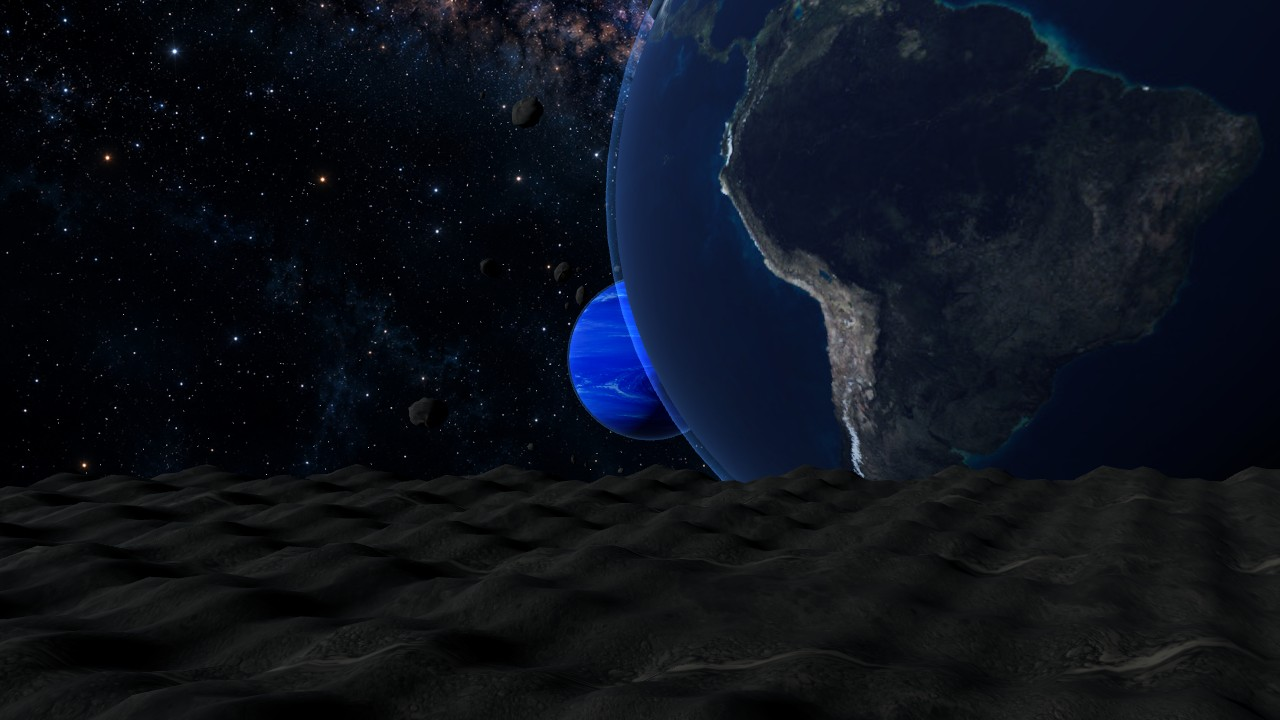
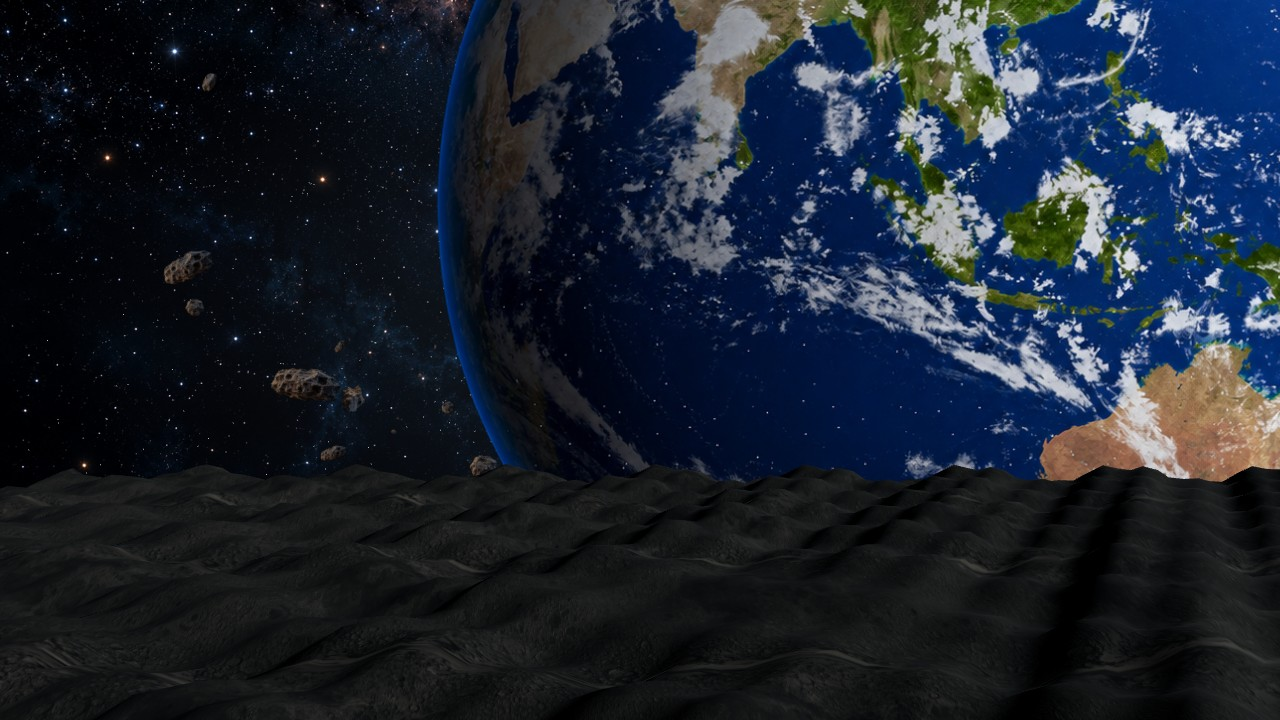
Reconstruct cinematic planet artwork from the video reference

diff --git a/index.html b/index.html
@@ -1,6 +1,6 @@
 <!doctype html>
 <html lang="ru">
-<head><meta charset="UTF-8"><meta name="viewport" content="width=device-width, initial-scale=1"><meta name="theme-color" content="#06090e"><meta name="description" content="Moonvit — жевательные витамины: сон, энергия, красота и баланс. Найдите свою планету в кинематографичном путешествии."><title>Moonvit — ваша вселенная заботы</title><link rel="preload" href="assets/worlds/moon-approach.jpg" as="image"><link rel="stylesheet" href="cinematic.css?v=models-20261014"></head>
+<head><meta charset="UTF-8"><meta name="viewport" content="width=device-width, initial-scale=1"><meta name="theme-color" content="#06090e"><meta name="description" content="Moonvit — жевательные витамины: сон, энергия, красота и баланс. Найдите свою планету в кинематографичном путешествии."><title>Moonvit — ваша вселенная заботы</title><link rel="preload" href="assets/worlds/moon-approach.jpg" as="image"><link rel="stylesheet" href="cinematic.css?v=reference-20261014"></head>
 <body>
 <a class="skip-link" href="#catalog">Перейти к коллекции</a>
 <header class="site-header"><a class="logo" href="#home" aria-label="Moonvit — главная">moonvit<sup>®</sup></a><nav aria-label="Основная навигация"><a href="#journey">Вселенная</a><a href="#catalog">Коллекция</a><a href="#ritual">О Moonvit</a><a href="#b2b">Сотрудничество</a></nav><a class="header-cta" href="#catalog">Выбрать свою планету <span aria-hidden="true"><svg class="icon" viewBox="0 0 16 16" fill="none" aria-hidden="true"><path d="M3 13 13 3M3 3h10v10" stroke="currentColor" stroke-width="1.2" stroke-linecap="round" stroke-linejoin="round"/></svg></span></a></header>
@@ -53,5 +53,5 @@
 <footer class="site-footer"><div class="footer-top"><a class="logo" href="#home">moonvit<sup>®</sup></a><p>Ваша вселенная заботы.</p><a class="text-link" href="https://moonvit.space/contacts" target="_blank" rel="noopener">Связаться с нами <svg class="icon" viewBox="0 0 16 16" fill="none" aria-hidden="true"><path d="M3 13 13 3M3 3h10v10" stroke="currentColor" stroke-width="1.2" stroke-linecap="round" stroke-linejoin="round"/></svg></a></div><nav aria-label="Дополнительные ссылки"><a href="#catalog">Коллекция</a><a href="#ritual">О Moonvit</a><a href="#b2b">Сотрудничество</a><a href="https://moonvit.space/news" target="_blank" rel="noopener">Новости</a><a href="https://moonvit.space/delivery" target="_blank" rel="noopener">Доставка</a><a href="https://moonvit.space/offer" target="_blank" rel="noopener">Оферта</a><a href="https://moonvit.space/privacy" target="_blank" rel="noopener">Конфиденциальность</a></nav><div class="footer-bottom"><span>© 2026 Moonvit</span><p>БАД. Не является лекарственным средством. Перед применением ознакомьтесь с инструкцией и противопоказаниями.</p><a href="#home">Наверх <svg class="icon" viewBox="0 0 16 16" fill="none" aria-hidden="true"><path d="M8 14V2M3 7l5-5 5 5" stroke="currentColor" stroke-width="1.2" stroke-linecap="round" stroke-linejoin="round"/></svg></a></div></footer>
 <dialog id="product-dialog" aria-labelledby="detail-name"><div class="detail-layout"><button class="dialog-close" aria-label="Закрыть карточку">×</button><div class="detail-art"><div class="jar original-jar" id="detail-jar"><img id="detail-photo" alt="" decoding="async"></div></div><div class="detail-copy"><p class="eyebrow">ВАША ПЛАНЕТА MOONVIT</p><h2 id="detail-name"></h2><p id="detail-title"></p><p id="detail-description"></p><p class="detail-flavor" id="detail-flavor"></p><h3>Ключевые компоненты</h3><ul id="detail-ingredients"></ul><p class="detail-note">Состав перенесён с официального сайта. Полный состав, дозировки и рекомендации уточняйте на упаковке и в карточке товара.</p><div class="detail-buy"><a class="pill primary" id="detail-wb" target="_blank" rel="noopener">Купить на Wildberries <svg class="icon" viewBox="0 0 16 16" fill="none" aria-hidden="true"><path d="M3 13 13 3M3 3h10v10" stroke="currentColor" stroke-width="1.2" stroke-linecap="round" stroke-linejoin="round"/></svg></a><a class="pill" id="detail-ozon" target="_blank" rel="noopener">Купить на Ozon <svg class="icon" viewBox="0 0 16 16" fill="none" aria-hidden="true"><path d="M3 13 13 3M3 3h10v10" stroke="currentColor" stroke-width="1.2" stroke-linecap="round" stroke-linejoin="round"/></svg></a><a class="text-link" href="https://moonvit.space/catalog" target="_blank" rel="noopener">В официальный каталог <svg class="icon" viewBox="0 0 16 16" fill="none" aria-hidden="true"><path d="M3 13 13 3M3 3h10v10" stroke="currentColor" stroke-width="1.2" stroke-linecap="round" stroke-linejoin="round"/></svg></a></div><p class="detail-note">БАД. Не является лекарственным средством. Оригинальная фотография продукта Moonvit.</p></div></div></dialog>
 <noscript><style>.journey{display:none!important}.reveal{opacity:1!important;transform:none!important}[data-product]{display:none}</style><p class="noscript-note">Для переключения сцен и просмотра состава включите JavaScript. Купить Moonvit можно в <a href="https://moonvit.space/catalog">официальном каталоге</a>.</p></noscript>
-<script id="product-data" type="application/json">[{"name": "Luna", "title": "Сон и расслабление", "label": "Время выдохнуть.", "description": "Черничный вкус и вечерний ритуал. Серия с глицином, L-теанином и экстрактом гриффонии — для вашей орбиты спокойствия.", "flavor": "Черника", "group": "balance", "accent": "#b0b9df", "ingredients": ["L-глицин", "L-теанин", "Инозитол", "5-HTP (экстракт гриффонии)", "Витамины B3, B4, B6"], "wb": "https://www.wildberries.ru/catalog/496587895/detail.aspx", "ozon": "https://www.ozon.ru/product/3034414296/", "position": "0% 0%", "photo": "assets/products/moon.png", "world": "assets/worlds/moon.jpg", "photoStyle": "--photo-ratio:554/652;--photo-width:303.2491%;--photo-left:-101.6245%;--photo-top:-21.7791%", "formula": "5-HTP · L-теанин · глицин"}, {"name": "Saturn", "title": "Энергия и иммунитет", "label": "В своём ритме.", "description": "Грейпфрутовый вкус и формула с аминокислотами, Q10, PQQ и витаминами. Маленький ритуал для насыщенных дней.", "flavor": "Грейпфрут", "group": "energy", "accent": "#ddb477", "ingredients": ["L-теанин, L-таурин, L-глутамин", "Коэнзим Q10", "PQQ", "Витамины D3, E, C и группы B", "Кофеин — 15 мг по составу на сайте"], "wb": "https://www.wildberries.ru/catalog/496614200/detail.aspx", "ozon": "https://www.ozon.ru/product/3034441475/", "position": "50% 0%", "photo": "assets/products/saturn.png", "world": "assets/worlds/saturn.jpg", "photoStyle": "--photo-ratio:554/652;--photo-width:303.2491%;--photo-left:-101.6245%;--photo-top:-21.7791%", "formula": "Q10 · PQQ · аминокислоты"}, {"name": "Venus", "title": "Женский мультикомплекс", "label": "Выбрать себя.", "description": "Арбуз и личи. Витамины, минералы и коэнзим Q10 в жевательном формате — ежедневный ритуал заботы о себе.", "flavor": "Арбуз · личи", "group": "balance", "accent": "#e6a9b2", "ingredients": ["Магний, цинк, селен", "Коэнзим Q10", "Витамины A, D3, E, K2, C", "Витамины группы B, биотин и фолат"], "wb": "https://www.wildberries.ru/catalog/496612403/detail.aspx", "ozon": "https://www.ozon.ru/product/3034516401/", "position": "100% 0%", "photo": "assets/products/venus.png", "world": "assets/worlds/venus.jpg", "photoStyle": "--photo-ratio:1262/1489;--photo-width:304.2789%;--photo-left:-102.1395%;--photo-top:-21.8267%", "formula": "Q10 · магний · витамины"}, {"name": "Mars", "title": "Мужской мультикомплекс", "label": "Своя траектория.", "description": "Лимон юдзу и кардамон. Цинк, магний, Q10 и витамины группы B — в серии для ежедневной заботы о себе.", "flavor": "Лимон юдзу · кардамон", "group": "energy", "accent": "#dca17e", "ingredients": ["Магний, цинк, бор, селен, йод", "Коэнзим Q10", "Витамины A, D3, E, K2, C", "Витамины группы B, биотин и фолат"], "wb": "https://www.wildberries.ru/catalog/496613689/detail.aspx", "ozon": "https://www.ozon.ru/product/3034467980/", "position": "0% 100%", "photo": "assets/products/mars.png", "world": "assets/worlds/mars.jpg", "photoStyle": "--photo-ratio:1262/1489;--photo-width:304.2789%;--photo-left:-102.1395%;--photo-top:-21.8267%", "formula": "Q10 · цинк · витамины B"}, {"name": "Earth", "title": "Коллаген + биотин", "label": "Красота изнутри.", "description": "Коллаген, биотин и витамины C, B3, B6 в жевательном формате. Вкус персика и личи — как на оригинальной упаковке этой серии.", "flavor": "Персик · личи", "group": "beauty", "accent": "#9dcfc7", "ingredients": ["Гидролизованный коллаген — 2000 мг по составу на сайте", "Биотин", "Витамины B3, B6, C"], "wb": "https://www.wildberries.ru/catalog/474828026/detail.aspx", "ozon": "https://www.ozon.ru/product/2929186704/", "position": "50% 100%", "photo": "assets/products/earth.png", "world": "assets/worlds/earth.jpg", "photoStyle": "--photo-ratio:702/883;--photo-width:239.3162%;--photo-left:-69.6581%;--photo-top:-3.6240%", "formula": "Коллаген · биотин · витамин C"}, {"name": "Neptune", "title": "Кожа, волосы, ногти", "label": "Сиять по-своему.", "description": "Мягкий вкус манго и ромашки. Коллаген, биотин, гиалуронат и MSM — ваша планета ежедневного бьюти-ритуала.", "flavor": "Манго · ромашка", "group": "beauty", "accent": "#a6b6f5", "ingredients": ["Гидролизованный коллаген", "MSM", "Гиалуронат натрия", "Коэнзим Q10 и цинк", "Витамины A, D3, E, K2, B2, B3, биотин и фолат"], "wb": "https://www.wildberries.ru/catalog/496615227/detail.aspx", "ozon": "https://www.ozon.ru/product/3034361846/", "position": "100% 100%", "photo": "assets/products/neptune.png", "world": "assets/worlds/neptune.jpg", "photoStyle": "--photo-ratio:554/652;--photo-width:303.2491%;--photo-left:-101.6245%;--photo-top:-21.7791%", "formula": "Коллаген · биотин · гиалуронат"}]</script><script src="cinematic.js?v=models-20261014"></script>
+<script id="product-data" type="application/json">[{"name": "Luna", "title": "Сон и расслабление", "label": "Время выдохнуть.", "description": "Черничный вкус и вечерний ритуал. Серия с глицином, L-теанином и экстрактом гриффонии — для вашей орбиты спокойствия.", "flavor": "Черника", "group": "balance", "accent": "#b0b9df", "ingredients": ["L-глицин", "L-теанин", "Инозитол", "5-HTP (экстракт гриффонии)", "Витамины B3, B4, B6"], "wb": "https://www.wildberries.ru/catalog/496587895/detail.aspx", "ozon": "https://www.ozon.ru/product/3034414296/", "position": "0% 0%", "photo": "assets/products/moon.png", "world": "assets/worlds/moon.jpg", "photoStyle": "--photo-ratio:554/652;--photo-width:303.2491%;--photo-left:-101.6245%;--photo-top:-21.7791%", "formula": "5-HTP · L-теанин · глицин"}, {"name": "Saturn", "title": "Энергия и иммунитет", "label": "В своём ритме.", "description": "Грейпфрутовый вкус и формула с аминокислотами, Q10, PQQ и витаминами. Маленький ритуал для насыщенных дней.", "flavor": "Грейпфрут", "group": "energy", "accent": "#ddb477", "ingredients": ["L-теанин, L-таурин, L-глутамин", "Коэнзим Q10", "PQQ", "Витамины D3, E, C и группы B", "Кофеин — 15 мг по составу на сайте"], "wb": "https://www.wildberries.ru/catalog/496614200/detail.aspx", "ozon": "https://www.ozon.ru/product/3034441475/", "position": "50% 0%", "photo": "assets/products/saturn.png", "world": "assets/worlds/saturn.jpg", "photoStyle": "--photo-ratio:554/652;--photo-width:303.2491%;--photo-left:-101.6245%;--photo-top:-21.7791%", "formula": "Q10 · PQQ · аминокислоты"}, {"name": "Venus", "title": "Женский мультикомплекс", "label": "Выбрать себя.", "description": "Арбуз и личи. Витамины, минералы и коэнзим Q10 в жевательном формате — ежедневный ритуал заботы о себе.", "flavor": "Арбуз · личи", "group": "balance", "accent": "#e6a9b2", "ingredients": ["Магний, цинк, селен", "Коэнзим Q10", "Витамины A, D3, E, K2, C", "Витамины группы B, биотин и фолат"], "wb": "https://www.wildberries.ru/catalog/496612403/detail.aspx", "ozon": "https://www.ozon.ru/product/3034516401/", "position": "100% 0%", "photo": "assets/products/venus.png", "world": "assets/worlds/venus.jpg", "photoStyle": "--photo-ratio:1262/1489;--photo-width:304.2789%;--photo-left:-102.1395%;--photo-top:-21.8267%", "formula": "Q10 · магний · витамины"}, {"name": "Mars", "title": "Мужской мультикомплекс", "label": "Своя траектория.", "description": "Лимон юдзу и кардамон. Цинк, магний, Q10 и витамины группы B — в серии для ежедневной заботы о себе.", "flavor": "Лимон юдзу · кардамон", "group": "energy", "accent": "#dca17e", "ingredients": ["Магний, цинк, бор, селен, йод", "Коэнзим Q10", "Витамины A, D3, E, K2, C", "Витамины группы B, биотин и фолат"], "wb": "https://www.wildberries.ru/catalog/496613689/detail.aspx", "ozon": "https://www.ozon.ru/product/3034467980/", "position": "0% 100%", "photo": "assets/products/mars.png", "world": "assets/worlds/mars.jpg", "photoStyle": "--photo-ratio:1262/1489;--photo-width:304.2789%;--photo-left:-102.1395%;--photo-top:-21.8267%", "formula": "Q10 · цинк · витамины B"}, {"name": "Earth", "title": "Коллаген + биотин", "label": "Красота изнутри.", "description": "Коллаген, биотин и витамины C, B3, B6 в жевательном формате. Вкус персика и личи — как на оригинальной упаковке этой серии.", "flavor": "Персик · личи", "group": "beauty", "accent": "#9dcfc7", "ingredients": ["Гидролизованный коллаген — 2000 мг по составу на сайте", "Биотин", "Витамины B3, B6, C"], "wb": "https://www.wildberries.ru/catalog/474828026/detail.aspx", "ozon": "https://www.ozon.ru/product/2929186704/", "position": "50% 100%", "photo": "assets/products/earth.png", "world": "assets/worlds/earth.jpg", "photoStyle": "--photo-ratio:702/883;--photo-width:239.3162%;--photo-left:-69.6581%;--photo-top:-3.6240%", "formula": "Коллаген · биотин · витамин C"}, {"name": "Neptune", "title": "Кожа, волосы, ногти", "label": "Сиять по-своему.", "description": "Мягкий вкус манго и ромашки. Коллаген, биотин, гиалуронат и MSM — ваша планета ежедневного бьюти-ритуала.", "flavor": "Манго · ромашка", "group": "beauty", "accent": "#a6b6f5", "ingredients": ["Гидролизованный коллаген", "MSM", "Гиалуронат натрия", "Коэнзим Q10 и цинк", "Витамины A, D3, E, K2, B2, B3, биотин и фолат"], "wb": "https://www.wildberries.ru/catalog/496615227/detail.aspx", "ozon": "https://www.ozon.ru/product/3034361846/", "position": "100% 100%", "photo": "assets/products/neptune.png", "world": "assets/worlds/neptune.jpg", "photoStyle": "--photo-ratio:554/652;--photo-width:303.2491%;--photo-left:-101.6245%;--photo-top:-21.7791%", "formula": "Коллаген · биотин · гиалуронат"}]</script><script src="cinematic.js?v=reference-20261014"></script>
 </body></html>

diff --git a/flight.js b/flight.js
@@ -1,15 +1,15 @@
 import * as THREE from './assets/vendor/three/three.module.js';
 
 // Original product PNGs remain untouched; only transparent margins are cropped for GPU upload.
-const textures = ['moon.jpg', 'saturn.png', 'venus.png', 'mars.png', 'earth.jpg', 'neptune.png'];
-// Art direction measured against the supplied video, rather than one light for every planet.
+const textures = ['moon', 'saturn', 'venus', 'mars', 'earth', 'neptune'];
+// Reference composition and light direction; lighting on the planets is baked into the cutouts.
 const worlds = [
-  {radius:12.3, light:[-.9,.35,.4], color:0xe1edff, rim:0x96bcff, tint:0xd9e0ec, landing:[.72,.27]},
-  {radius:13, light:[-.95,.3,.2], color:0xffedce, rim:0xffd8a0, tint:0xb8b1a2, landing:[.96,.18]},
-  {radius:12.5, light:[-.85,.45,.3], color:0xffe7df, rim:0xffd1d9, tint:0xedc6d1, landing:[.78,.30]},
-  {radius:13.4, light:[.9,.45,.15], color:0xffddaa, rim:0xffbb76, tint:0xce9d76, landing:[.78,.25]},
-  {radius:12.4, light:[-.9,.35,.35], color:0xdbedff, rim:0x8ec8ff, tint:0xd9eaff, landing:[.78,.28]},
-  {radius:13, light:[.95,.35,.18], color:0xd7eaff, rim:0x93caff, tint:0xb6c9ed, landing:[.77,.27]}
+  {radius:17, light:[.9,.35,.4], color:0xe1edff, landing:[.72,.27]},
+  {radius:14.5, light:[-.95,.3,.2], color:0xffedce, landing:[.94,.51]},
+  {radius:14.2, light:[-.85,.45,.3], color:0xffe7df, landing:[.78,.30]},
+  {radius:18, light:[.9,.45,.15], color:0xffddaa, landing:[.78,.25]},
+  {radius:18, light:[.9,.35,.35], color:0xdbedff, landing:[.78,.28]},
+  {radius:16, light:[.95,.35,.18], color:0xd7eaff, landing:[.77,.27]}
 ];
 const SECTOR = 100;
 const FOV = 50;
@@ -19,7 +19,6 @@ const finalProductZ = -6;
 const clamp = n => Math.max(0, Math.min(1, n));
 const ease = n => { n = clamp(n); return n * n * (3 - 2 * n); };
 const lerp = (a, b, t) => a + (b - a) * t;
-const point = new THREE.Vector3();
 
 function randomGenerator(seed) {
   return () => {
@@ -28,19 +27,6 @@ function randomGenerator(seed) {
     n ^= n + Math.imul(n ^ n >>> 7, 61 | n);
     return ((n ^ n >>> 14) >>> 0) / 4294967296;
   };
-}
-
-function makeRockGeometry() {
-  const geometry = new THREE.SphereGeometry(1, 16, 10);
-  const positions = geometry.attributes.position;
-  for (let i = 0; i < positions.count; i++) {
-    point.fromBufferAttribute(positions, i);
-    const roughness = 1 + 0.12 * Math.sin(point.x * 18 + point.y * 7) * Math.cos(point.z * 11);
-    point.multiplyScalar(roughness);
-    positions.setXYZ(i, point.x, point.y, point.z);
-  }
-  geometry.computeVertexNormals();
-  return geometry;
 }
 
 function makeTerrainGeometry() {
@@ -56,41 +42,22 @@ function makeTerrainGeometry() {
   return geometry;
 }
 
-function ringMaterial(innerRadius, outerRadius, radius) {
-  return new THREE.ShaderMaterial({
-    transparent: true, side: THREE.DoubleSide, depthWrite: false,
-    uniforms: { inner: {value: innerRadius}, outer: {value: outerRadius}, radius:{value:radius}, light:{value:new THREE.Vector3(-.95,.3,.2).normalize()} },
-    vertexShader: `varying vec3 ringPosition; varying vec3 planetPosition; void main(){ ringPosition=position; planetPosition=mat3(modelMatrix)*position; gl_Position=projectionMatrix*modelViewMatrix*vec4(position,1.0); }`,
-    fragmentShader: `varying vec3 ringPosition; varying vec3 planetPosition; uniform float inner; uniform float outer; uniform float radius; uniform vec3 light;
-      void main(){ float r=length(ringPosition.xy); float t=(r-inner)/(outer-inner);
-      float fine=1.-smoothstep(.006,.03,fwidth(t));
-      float bands=.55+.17*sin(t*47.)+.12*sin(t*132.)+.09*sin(t*430.)*fine;
-      float gap=1.-smoothstep(.47,.48,t)*(1.-smoothstep(.505,.52,t));
-      float alpha=(.53+.38*bands)*gap*smoothstep(0.,.015,t)*(1.-smoothstep(.97,1.,t));
-      float along=dot(planetPosition,light); float distanceToRay=length(planetPosition-light*along);
-      float shadow=along<0. ? mix(.14,1.,smoothstep(radius*.97,radius*1.08,distanceToRay)) : 1.;
-      vec3 color=mix(vec3(.26,.17,.09),vec3(.79,.49,.22),bands)*shadow;
-      gl_FragColor=vec4(color,alpha);
-      #include <tonemapping_fragment>
-      #include <colorspace_fragment>
-      }`
+// View-facing photographic cutouts retain the reference's crater placement,
+// soft lighting and luminous limb while the camera moves through 3D space.
+function makePlanet(surface, index) {
+  const world = worlds[index];
+  const height = world.radius * 2.24;
+  const width = height * surface.image.width / surface.image.height;
+  const material = new THREE.MeshBasicMaterial({
+    map:surface, transparent:true, alphaTest:.012, depthWrite:true, toneMapped:false, fog:false
   });
-}
-
-function atmosphere(radius, color) {
-  return new THREE.Mesh(new THREE.SphereGeometry(radius * 1.025, 48, 32), new THREE.ShaderMaterial({
-    uniforms: {glow: {value: new THREE.Color(color)}}, transparent: true, depthWrite: false,
-    blending: THREE.AdditiveBlending,
-    vertexShader: `varying vec3 n; varying vec3 v; void main(){ vec4 p=modelViewMatrix*vec4(position,1.); n=normalize(normalMatrix*normal); v=normalize(-p.xyz); gl_Position=projectionMatrix*p; }`,
-    fragmentShader: `uniform vec3 glow; varying vec3 n; varying vec3 v; void main(){ float rim=pow(1.-max(0.,dot(normalize(n),normalize(v))),4.5); gl_FragColor=vec4(glow,rim*.55); }`
-  }));
-}
-
-function planetMaterial(surface, index) {
-  const material = new THREE.MeshStandardMaterial({map:surface, color:worlds[index].tint, roughness:1, metalness:0});
-  if (index === 0 || index === 3) { material.bumpMap = surface; material.bumpScale = index === 0 ? .09 : .055; }
-
-  return material;
+  if (index !== 1) material.onBeforeCompile = shader => {
+    // Feather the reconstructed glow so isolated alpha flecks cannot form a hard fringe.
+    shader.fragmentShader = shader.fragmentShader.replace('#include <map_fragment>', '#include <map_fragment>\ndiffuseColor.a*=1.-smoothstep(.465,.495,length(vMapUv-vec2(.5)));');
+  };
+  const mesh = new THREE.Mesh(new THREE.PlaneGeometry(width, height), material);
+  mesh.userData.referencePlanet = textures[index];
+  return mesh;
 }
 
 export async function createFlight(stage, products) {
@@ -133,12 +100,10 @@ export async function createFlight(stage, products) {
   const stars = new THREE.Points(starsGeometry, new THREE.PointsMaterial({color: 0xd9e8ff, size: .18, transparent: true, opacity: .8, sizeAttenuation: true}));
   scene.add(stars);
 
-  const rockGeometry = makeRockGeometry();
   let rockMap;
   try { rockMap = await loader.loadAsync('assets/flight/moon.jpg'); }
-  catch { renderer.dispose(); rockGeometry.dispose(); starsGeometry.dispose(); stars.material.dispose(); return null; }
+  catch { renderer.dispose(); starsGeometry.dispose(); stars.material.dispose(); return null; }
   rockMap.colorSpace = THREE.SRGBColorSpace;
-  const rockMaterial = new THREE.MeshStandardMaterial({map:rockMap, color:0x726a60, roughness:1});
   const groundMap = rockMap.clone();
   groundMap.wrapS = groundMap.wrapT = THREE.RepeatWrapping;
   groundMap.repeat.set(7, 5);
@@ -147,44 +112,45 @@ export async function createFlight(stage, products) {
   const terrainMaterial = new THREE.MeshStandardMaterial({map:groundMap, bumpMap:groundMap, bumpScale:.16, color:0x62594b, roughness:1, transparent:true});
   resources.push(groundMap);
   resources.push(rockMap);
-  const asteroidCount = 220;
+  // Photo cutouts give the foreground stones the same natural detail as the video.
+  let asteroidMap;
+  try { asteroidMap = await loader.loadAsync('assets/planets/asteroids.png'); }
+  catch { renderer.dispose(); resources.forEach(texture=>texture.dispose()); terrainGeometry.dispose(); terrainMaterial.dispose(); starsGeometry.dispose(); stars.material.dispose(); return null; }
+  asteroidMap.colorSpace = THREE.SRGBColorSpace;
+  resources.push(asteroidMap);
+  const asteroidCount = 960;
+  const rockGeometry = new THREE.PlaneGeometry(1,1);
+  const tiles = new Float32Array(asteroidCount * 2);
+  const asteroidPoses = [];
+  const rockMaterial = new THREE.MeshBasicMaterial({map:asteroidMap, color:0xaab2b9, transparent:true, alphaTest:.04, depthWrite:true, toneMapped:false});
+  rockMaterial.onBeforeCompile = shader => {
+    shader.vertexShader = 'attribute vec2 asteroidTile;\n' + shader.vertexShader;
+    shader.vertexShader = shader.vertexShader.replace('#include <uv_vertex>', '#include <uv_vertex>\nvMapUv=(vMapUv+asteroidTile)*.5;');
+  };
   const asteroids = new THREE.InstancedMesh(rockGeometry, rockMaterial, asteroidCount);
   const transform = new THREE.Object3D();
-  for (let i = 0; i < asteroidCount; i++) {
-    const angle = random() * Math.PI * 2;
-    const radius = 4.8 + random() * 27;
-    transform.position.set(Math.cos(angle) * radius, Math.sin(angle) * radius, 25 - random() * 680);
-    const size = .12 + random() ** 3 * 1.25;
-    transform.scale.set(size * (1 + random()), size, size * (.7 + random()));
-    transform.rotation.set(random() * Math.PI, random() * Math.PI, random() * Math.PI);
-    transform.updateMatrix();
-    asteroids.setMatrixAt(i, transform.matrix);
+  const roll = new THREE.Quaternion();
+  const rollAxis = new THREE.Vector3(0,0,1);
+  for (let i=0; i<asteroidCount; i++) {
+    const angle=random()*Math.PI*2, radius=7+random()*29;
+    asteroidPoses.push({x:Math.cos(angle)*radius, y:Math.sin(angle)*radius*.75-3, z:12-Math.floor(i/160)*SECTOR-random()*100, size:.25+random()**2*2.2, roll:(random()-.5)*Math.PI});
+    tiles[i*2]=i%2; tiles[i*2+1]=Math.floor(i/2)%2;
   }
+  rockGeometry.setAttribute('asteroidTile',new THREE.InstancedBufferAttribute(tiles,2));
+  asteroids.frustumCulled=false;
   scene.add(asteroids);
 
   try {
-    await Promise.all(products.map(async (product, index) => {
+    const built = await Promise.allSettled(products.map(async (product, index) => {
       const [surface, photo] = await Promise.all([
-        loader.loadAsync(`assets/flight/${textures[index]}`),
+        loader.loadAsync(`assets/planets/${textures[index]}.png`),
         loader.loadAsync(product.photo)
       ]);
       surface.colorSpace = photo.colorSpace = THREE.SRGBColorSpace;
       surface.anisotropy = Math.min(4, renderer.capabilities.getMaxAnisotropy());
       resources.push(surface, photo);
-      const radius = worlds[index].radius;
-      const planet = new THREE.Group();
-      planet.position.set(3.5, .3, -index * SECTOR - 27);
-      const body = new THREE.Mesh(new THREE.SphereGeometry(radius, 64, 48), planetMaterial(surface, index));
-      body.rotation.y = index === 4 ? -1.1 : index === 5 ? -1.7 : .15;
-      planet.add(body, atmosphere(radius, worlds[index].rim));
-      if (index === 1) {
-        const innerRadius = radius * 1.15, outerRadius = radius * 2.03;
-        const rings = new THREE.Mesh(new THREE.RingGeometry(innerRadius, outerRadius, 192), ringMaterial(innerRadius, outerRadius, radius));
-        // Rotate the ring plane itself around the view axis; Euler Z before X inverted the slope.
-        rings.rotation.x = -1.40;
-        rings.rotateOnWorldAxis(new THREE.Vector3(0,0,1), -.32);
-        planet.add(rings);
-      }
+      const planet = makePlanet(surface,index);
+      planet.position.set(1.6,.4,-index*SECTOR-27);
       scene.add(planet);
       planets[index] = planet;
 
@@ -215,7 +181,11 @@ export async function createFlight(stage, products) {
       scene.add(shelf);
       shelves[index] = shelf;
     }));
+    const failure = built.find(result=>result.status==='rejected');
+    if (failure) throw failure.reason;
   } catch (error) {
+    scene.traverse(object=>{ object.geometry?.dispose(); object.material?.dispose(); });
+    terrainGeometry.dispose(); terrainMaterial.dispose();
     renderer.dispose();
     resources.forEach(texture => texture.dispose());
     return null;
@@ -256,6 +226,7 @@ export async function createFlight(stage, products) {
     camera.position.set(departure > 0 ? lerp(0,-1.2,departure)+Math.sin(departure*Math.PI)*4.2 : lerp(-1.2,0,approach), departure > 0 ? .1*departure+Math.sin(departure*Math.PI)*.9 : .1*(1-approach), cameraZ);
     camera.lookAt(camera.position.x * .5, camera.position.y * .5, cameraZ - 40);
     const world = worlds[index];
+    stage.style.setProperty('--nebula-glow', ['#b4d9ff35','#d6ae6c24','#ddb3c62b','#ce9b7425','#a5ccee30','#8fabf640'][index]);
     const planetDistance = finalCameraZ + 27;
     const planetSpan = 2 * planetDistance * Math.tan(FOV * Math.PI / 360);
     // The planet moves to the upper right during arrival, leaving the product and text in front.
@@ -285,16 +256,26 @@ export async function createFlight(stage, products) {
       pack.material.opacity = ease((phase - .22) / .12) * (1 - exit);
       terrainMaterial.opacity = ease((phase - .49) / .07) * (1 - exit);
       shelves[i].position.set(pack.position.x, pack.position.y - pose.h / 2 - .025, pack.position.z - .12);
-      const planet = planets[i];
-      planet.rotation.y = phase * .045;
     });
     planets.forEach((planet, i) => {
-      planet.visible = i === index || i === index + 1;
+      planet.visible = i === index || (i === index + 1 && departure > .05);
       if (i !== index) { planet.position.x = 1.6; planet.position.y = .4; planet.scale.setScalar(Math.min(1, camera.aspect / .95)); }
     });
+    planets.forEach(planet => planet.quaternion.copy(camera.quaternion));
+    asteroidPoses.forEach((rock,i) => {
+      const distance=cameraZ-rock.z;
+      const size=rock.size*ease((distance-3)/4);
+      transform.position.set(rock.x,rock.y,rock.z);
+      transform.scale.setScalar(size);
+      roll.setFromAxisAngle(rollAxis,rock.roll);
+      transform.quaternion.copy(camera.quaternion).multiply(roll);
+      transform.updateMatrix(); asteroids.setMatrixAt(i,transform.matrix);
+    });
+    asteroids.instanceMatrix.needsUpdate=true;
     renderer.render(scene, camera);
     stage.dataset.flightPhase = phase < .22 ? 'approach' : phase < .55 ? 'arrival' : phase < .8 || index === products.length - 1 ? 'hold' : 'departure';
     stage.dataset.cameraZ = cameraZ.toFixed(3);
+    stage.dataset.planetAsset = `assets/planets/${textures[index]}.png`;
   }
   const onResize = () => { resize(); render(lastCursor); };
   addEventListener('resize', onResize);

diff --git a/cinematic.css b/cinematic.css
@@ -28,7 +28,9 @@
 @media(max-height:760px) and (max-width:700px){.chapter-copy h2{font-size:40px}.chapter-copy h3{font-size:16px;margin-bottom:8px}.chapter-copy .eyebrow{margin-bottom:8px}.chapter-description{font-size:8px;line-height:1.6;max-width:265px}.chapter-product{top:48%;height:32svh;left:39%}.chapter-actions .text-link{font-size:8px}.chapter-navigation{bottom:79px}}
 @media(min-width:701px) and (max-width:1000px) and (orientation:portrait){.chapter-copy{top:13%;left:7%;width:75%;max-width:500px}.chapter-copy h2{font-size:72px}.chapter-copy h3{font-size:24px}.chapter-description{max-width:400px;font-size:12px}.chapter-specs{display:none}.chapter-product{left:38%;top:45%;height:39svh}.chapter-navigation{right:4%;top:43%}}
 .home-anchor{display:block;height:0}.cinema-stage>.opening{position:absolute;inset:0;height:100%;min-height:0;z-index:3;pointer-events:none}.cinema-stage>.opening a{pointer-events:auto}.cinema-stage>.opening .opening-bottom{bottom:90px}.flight-canvas{position:absolute;inset:0;width:100%;height:100%;z-index:0;pointer-events:none}.flight-ready{background:#02050a url('assets/flight/sky.png') center/cover no-repeat}.flight-ready .chapter{z-index:1}.flight-ready .chapter>.cosmos,.flight-ready .chapter-product,.flight-ready .flyby,.flight-ready .opening-background{visibility:hidden!important}.flight-ready .cinema-shade{z-index:-1}.flight-ready .chapter-copy,.flight-ready .approach-label{z-index:3}.flight-ready .chapter-navigation,.flight-ready .cinema-bottom{z-index:4}
-/* The lightweight scenes use renders of the same planet geometry and lighting. */
+/* The lightweight scenes use renders of the same planet artwork and composition. */
+.site-header.over-flight{background:linear-gradient(#02060b80,transparent);border-color:#ffffff12;backdrop-filter:none}
+.flight-ready{background-image:radial-gradient(ellipse at 78% 42%,var(--nebula-glow,#b4d9ff35),transparent 67%),url('assets/flight/sky.png');background-blend-mode:screen,normal}
 .cosmos,.chapter .cosmos{background-image:var(--approach-world,var(--world));background-position:center;transform:none}
 .chapter>.cosmos::after{content:'';position:absolute;inset:0;background:var(--world) center/cover no-repeat;opacity:var(--world-arrival,0)}
 .foreground,.flyby{display:none}

diff --git a/cinematic.js b/cinematic.js
@@ -34,6 +34,7 @@ function draw() {
   frameRequested = false;
   header.classList.toggle('scrolled', scrollY > 50);
   const progress = clamp((scrollY - journeyStart) / (chapterDistance * chapters.length));
+  header.classList.toggle('over-flight', scrollY < journeyStart + chapterDistance * chapters.length);
   const cursor = Math.min(progress * chapters.length, chapters.length - 0.001);
   const index = Math.floor(cursor);
   const fraction = cursor - index;
@@ -110,7 +111,7 @@ async function startFlight() {
   if (flightScene || flightLoading || reducedMotion.matches) return;
   flightLoading = true;
   try {
-    const module = await import('./flight.js?v=models-20261014');
+    const module = await import('./flight.js?v=reference-20261014');
     const created = await module.createFlight(stage, products);
     if (reducedMotion.matches) created?.dispose();
     else flightScene = created;

diff --git a/tests/smoke.py b/tests/smoke.py
@@ -99,13 +99,15 @@ with sync_playwright() as playwright:
     assert not errors, errors
     browser.close()
 
-    for failure in ['no-webgl', 'texture-failure']:
+    for failure in ['no-webgl', 'texture-failure', 'planet-failure']:
         args = ['--no-sandbox'] + (['--disable-webgl'] if failure == 'no-webgl' else [])
         browser = playwright.chromium.launch(executable_path='/usr/bin/chromium', headless=True, args=args)
         page = browser.new_page(viewport={'width':390, 'height':844})
         page.route('https://fonts.googleapis.com/**', lambda route: route.abort())
         if failure == 'texture-failure':
             page.route('**/assets/flight/moon.jpg', lambda route: route.abort())
+        if failure == 'planet-failure':
+            page.route('**/assets/planets/mars.png', lambda route: route.abort())
         page.goto(URL, wait_until='networkidle')
         assert page.locator('.flight-ready').count() == 0
         page.evaluate('''async () => {

diff --git a/tools/render-backdrops.py b/tools/render-backdrops.py
@@ -14,7 +14,7 @@ with sync_playwright() as p:
  errors=[];page.on('pageerror',lambda e:errors.append(str(e)))
  page.goto('http://127.0.0.1:3000',wait_until='networkidle')
  page.wait_for_selector('.flight-ready')
- page.add_style_tag(content='.site-header,.cinema-stage>*:not(canvas),.skip-link{visibility:hidden!important}.cinema-stage{background:#02050a url(assets/flight/sky.png) center/cover no-repeat!important}')
+ page.add_style_tag(content='.site-header,.cinema-stage>*:not(canvas),.skip-link{visibility:hidden!important}')
  geom=page.evaluate('({start:document.querySelector("#journey").getBoundingClientRect().top+scrollY,step:(document.querySelector("#journey").offsetHeight-document.querySelector(".cinema-stage").offsetHeight)/6})')
  for i,name in enumerate(['moon','saturn','venus','mars','earth','neptune']):
   for suffix,phase in [('-approach',.20),('',.65)]:

diff --git a/README.md b/README.md
@@ -22,15 +22,17 @@ python3 server.py > /tmp/moonvit-server.log 2>&1
 
 Фотографии всех шести банок взяты с официального сайта Moonvit и сохранены без изменения пикселей в `assets/products/`. Происхождение и SHA-256 файлов записаны в `assets/products/sources.json`. Прозрачные поля оригинальных файлов учитываются в CSS; этикетки не перерисовываются. По оригинальным этикеткам Земля — коллаген и биотин, Нептун — кожа, волосы и ногти. Вкусы Венеры (арбуз–личи) и Земли (персик–личи) приведены по выбранным фотографиям упаковок, поскольку тексты сайта описывают другие варианты.
 
-`flight.js` строит сцену на Three.js 0.186.1: объёмные планеты, кольца Сатурна, звёзды, астероиды, каменистая поверхность и движущаяся камера. Библиотека сохранена в `assets/vendor/three/` вместе с лицензией MIT, установка npm для запуска не нужна. Текстуры находятся в `assets/flight/`, происхождение файлов указано в `sources.json`. Для Луны и Земли использованы текстуры из официального репозитория Three.js; остальные поверхности и фон созданы по референсу. Оригинальные 3D-модели из видео не предоставлены: геометрия и материалы воссозданы, точного совпадения с роликом пока нет. У каждой планеты отдельное направление света и цвет атмосферы; кольца Сатурна наклонены по референсу, Нептун развёрнут вихрем к камере.
+`flight.js` строит сцену на Three.js 0.186.1: движущаяся камера, звёзды, поле астероидов и каменистая поверхность. Планеты, кольца Сатурна и астероиды показаны изображениями на прозрачном фоне, реконструированными по кадрам пользовательского видео. Они размещены на обращённых к камере плоскостях в 3D-пространстве: это сохраняет рисунок крупных кратеров, облака, освещение и ореолы референса при подлёте. Они не являются исходными объёмными моделями из видео и не вращаются вокруг своей оси. Файлы находятся в `assets/planets/`, происхождение и SHA-256 записаны в `assets/planets/sources.json`. Мягкий край ореола фильтруется при рендере; PNG-файлы сохранены без редактирования после генерации.
+
+Библиотека сохранена в `assets/vendor/three/` вместе с лицензией MIT, установка npm для запуска не нужна. В `assets/flight/` находятся звёздный фон и текстура каменистой поверхности, а также неиспользуемые текстуры предыдущей версии со сферическими моделями.
 
 Оригинальная фотография банки располагается на плоскости в 3D-сцене: это сохраняет настоящие этикетки. При загрузке на GPU отсекаются только прозрачные поля, сами файлы в `assets/products/` остаются неизменными. Банка не является независимой объёмной моделью и не вращается вокруг своей оси.
 
-Фазы каждой главы: подлёт к планете, появление банки из глубины, удержание крупного плана, пролёт к следующей планете. Рендер происходит при прокрутке и изменении окна, без непрерывного цикла в состоянии покоя. Для мобильных экранов ограничена плотность пикселей. Если WebGL недоступен, текстуры не загрузились или включено уменьшение движения, работает CSS-вариант с фонами из `assets/worlds/`. Эти фоны — кадры тех же 3D-моделей при подлёте и крупном плане, поэтому форма, материалы и освещение планет совпадают между режимами. Во время подлёта CSS-вариант смешивает два кадра; непрерывное движение камеры доступно в WebGL. После восстановления контекста WebGL возвращается автоматически. Последняя банка и её описание остаются видимыми до выхода из закреплённой сцены. Нативная вертикальная прокрутка сохранена.
+Фазы каждой главы: подлёт к планете, появление банки из глубины, удержание крупного плана, пролёт к следующей планете. Рендер происходит при прокрутке и изменении окна, без непрерывного цикла в состоянии покоя. Для мобильных экранов ограничена плотность пикселей. Если WebGL недоступен, текстуры не загрузились или включено уменьшение движения, работает CSS-вариант с фонами из `assets/worlds/`. Эти фоны — кадры тех же изображений планет при подлёте и крупном плане, поэтому рисунок поверхности, кольца и освещение сохраняются между режимами. Во время подлёта CSS-вариант смешивает два кадра; непрерывное движение камеры доступно в WebGL. После восстановления контекста WebGL возвращается автоматически. Последняя банка и её описание остаются видимыми до выхода из закреплённой сцены. Нативная вертикальная прокрутка сохранена.
 
 ## Проверка
 
-При работающем сервере выполните `python3 tests/smoke.py`. Проверка использует Python Playwright и `/usr/bin/chromium`; они доступны в текущей облачной среде. Она проходит все шесть сцен и диалогов, обратную прокрутку, конец сцены Neptune, фильтры, пять размеров экрана, потерю и восстановление WebGL, уменьшение движения, отсутствие WebGL и ошибку загрузки текстуры. Для самой страницы эти инструменты не нужны.
+При работающем сервере выполните `python3 tests/smoke.py`. Проверка использует Python Playwright и `/usr/bin/chromium`; они доступны в текущей облачной среде. Она проходит все шесть сцен и диалогов, обратную прокрутку, конец сцены Neptune, фильтры, пять размеров экрана, потерю и восстановление WebGL, уменьшение движения, отсутствие WebGL, ошибку загрузки каменистой текстуры и ошибку загрузки изображения планеты. Для самой страницы эти инструменты не нужны.
 
 `python3 tools/render-backdrops.py` пересоздаёт облегчённые фоны из текущего `flight.js` и записывает их контрольные суммы в `assets/worlds/sources.json`. Банки и текст в эти кадры не включены.
 
